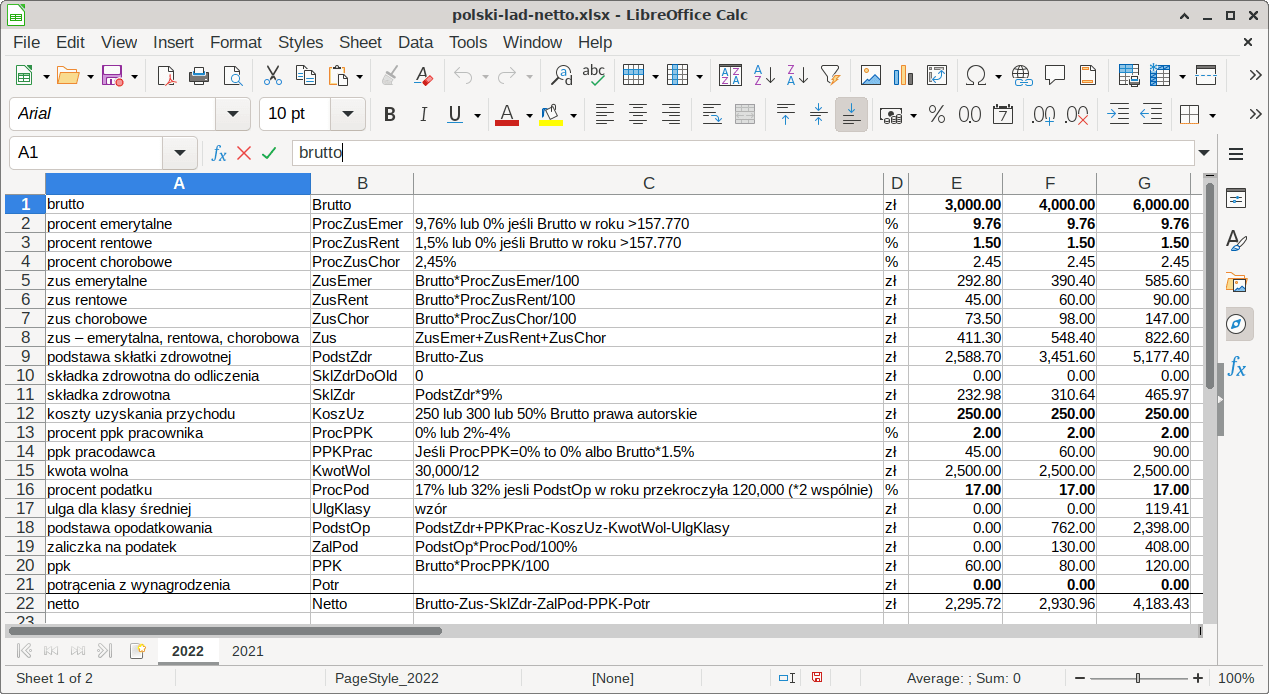
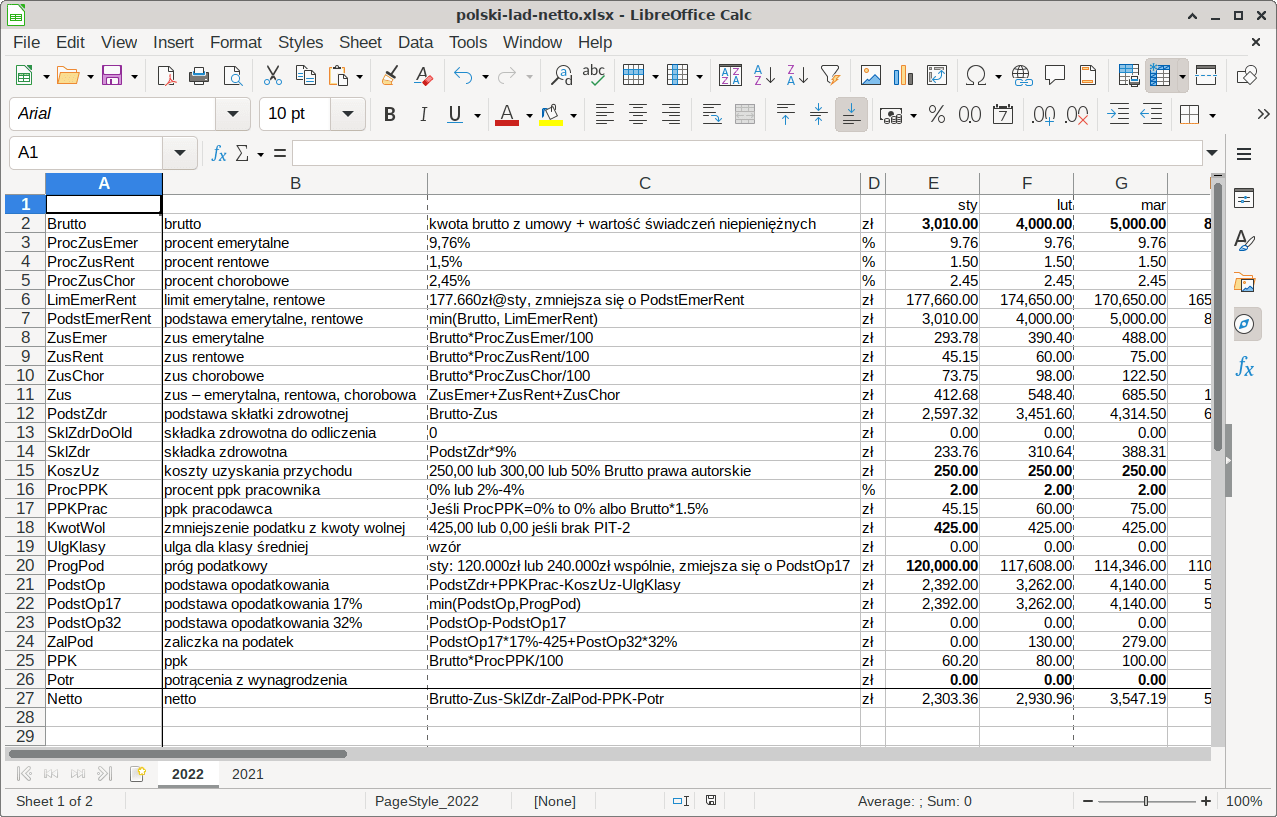
Wsparcie dla limitu ZUS i 2. progu podatkowego

diff --git a/README.md b/README.md
@@ -15,8 +15,5 @@ ten rozjazd. Chętnie przyjmę pomoc w naprawieniu tego.
 
 Skoroszyt ma arkusze dla roku 2022 (zasady Polskiego Ładu) oraz, dla porównania, dla roku 2021.
 
-Arkusze nie obsługują (jeszcze) wyliczeń dla miesięcy, w których część podstawy opodatkowania jest
-opodatkowana w innym progu podatkowym, lub część podstawy stawek na ZUS jest poza limitem.
-
 Autor:
 Tomasz "Tometzky" Ostrowski
